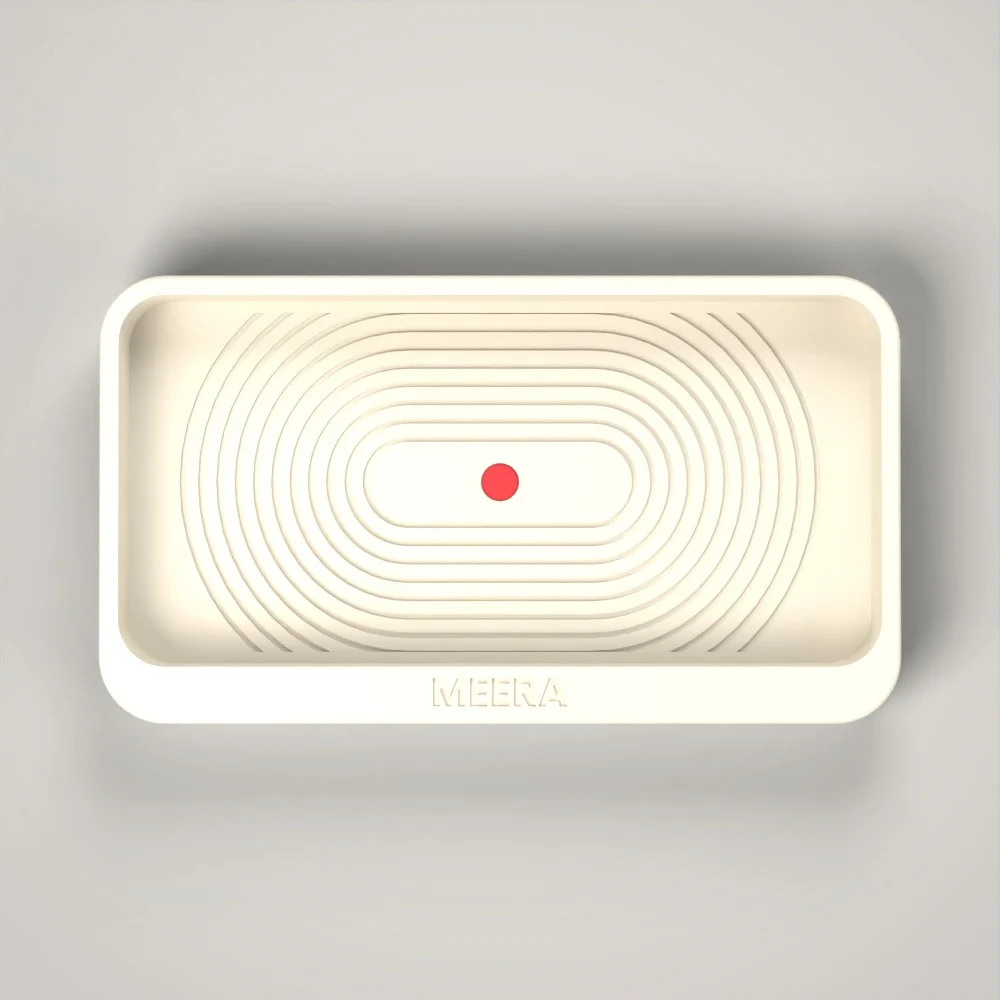
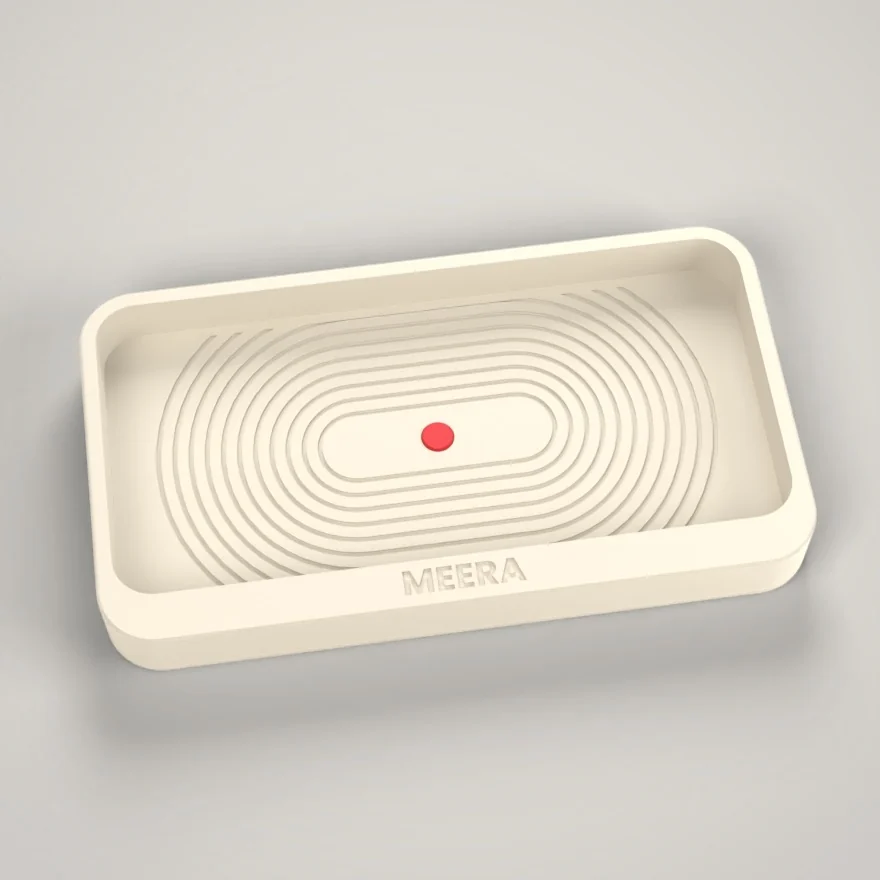
Ripple: softer render lighting, black and ivory renders, tray colour pick
Claude-Session: https://claude.ai/code/session_012J3bizcvEM83i7NEJcEcLP

diff --git a/index.html b/index.html
@@ -867,11 +867,11 @@ const P=[
   desc:"A phone stand with one idea: lean it back. The A-frame is hollow, so it is light and strong, with a 12 mm groove that takes a phone in a case, a lip to stop it sliding and a cable channel underneath so charging does not tip it. Fine flutes run up the back. The top 4 mm is red either way. One piece, nothing to build.",
   size:"70 x 88 x 88 mm, about 60 g. Groove takes phones up to about 11 mm thick with a case",f:[],
   imgs:[["lean","Black body"],["lean_ivory","Ivory body"],["lean_phone","With a phone"],["lean_back","Back, with the cable channel"]]},
- {id:"D18",side:"D",name:"Ripple",kind:"Key tray",price:699,custom:true,noAccent:true,badge:"New",build:"ripple",line:"Ripples spread from one red dot, your name on the lip",
-  desc:"An ivory tray for keys and wallet by the door. Fine ripple grooves spread out from a single red dot, and a flat lip at the front carries your name. Four felt pads underneath keep the table safe. One piece, nothing to build.",
+ {id:"D18",side:"D",name:"Ripple",kind:"Key tray",price:699,custom:true,noAccent:true,badge:"New",build:"ripple",pick:["Tray colour",["Ivory","Black"]],line:"Ripples spread from one red dot, your name on the lip",
+  desc:"A tray for keys and wallet by the door, in ivory or black. Fine ripple grooves spread out from a single red dot, and a flat lip at the front carries your name. Four felt pads underneath keep the table safe. One piece, nothing to build.",
   size:"170 x 95 x 18 mm, about 78 g",
   f:[["Name for the front lip (optional)","",{max:12,opt:true,note:"Up to 12 letters. Leave it empty for a plain lip."}]],
-  imgs:[["ripple","On a shelf"],["ripple_top","From above"]]},
+  imgs:[["ripple","Ivory"],["ripple_black","Black"],["ripple_top","Ivory, from above"],["ripple_black_top","Black, from above"]]},
  {id:"D19",side:"D",name:"Key rail",kind:"Wall rail with hooks",price:799,noAccent:true,badge:"New",build:"keyrail",line:"A slim rail, three hooks that slide in and out",
   desc:"A 200 mm rail for the wall by your door. Five dovetail slots sit along it and the hooks slide down into any of them, so you set them where you want them and move them when that changes. Comes with three jack-plug key hooks. Fix it with two screws or 3M strips. Wider hooks and a small ledge are planned as add-ons, ask in the chat.",
   size:"Rail 200 x 36 x 10 mm, about 57 g with three hooks",f:[],

diff --git a/print-files/cad/render.py b/print-files/cad/render.py
@@ -31,6 +31,7 @@ SHOTS = {
  "crate_s1": dict(az=-14, el=40, zoom=1.12), "crate_back": dict(az=152, el=18, zoom=1.0), "crate_s2": dict(az=-30, el=26, zoom=1.0), "crate_s3": dict(az=-32, el=22, zoom=1.0), "crate_s4": dict(az=-28, el=22, zoom=1.0), "crate_s5": dict(az=-28, el=20, zoom=1.0),
  "cover": dict(az=-26, el=24, zoom=1.0), "cover_lifted": dict(az=-30, el=20, zoom=1.0), "cover_top": dict(az=0, el=89, zoom=1.0), "cover_tiles": dict(az=-24, el=40, zoom=1.0),
  "perch": dict(az=-36, el=30, zoom=1.0, focus=("black", "red", "glass", "prop")), "perch_flat": dict(az=-26, el=44, zoom=1.0),
+ "ripple": dict(az=-24, el=34, zoom=1.0, soft=0.55), "ripple_black": dict(az=-24, el=34, zoom=1.0, soft=0.8), "ripple_top": dict(az=-8, el=62, zoom=1.0, soft=0.5), "ripple_black_top": dict(az=-8, el=62, zoom=1.0, soft=0.8),
 }
 
 def mat(name):
@@ -88,8 +89,9 @@ def render(scene_name, draft=False, res=880):
         l = bpy.data.lights.new("l", "AREA"); l.size = size * rad; l.energy = power * rad * rad; l.color = color
         o = bpy.data.objects.new("l", l); sc.collection.objects.link(o)
         o.location = tgt + Vector(loc) * rad; o.rotation_euler = (tgt - o.location).to_track_quat("-Z", "Y").to_euler()
-    area((-2.6, -2.2, 3.6), 3.2, 380, (1.0, 0.97, 0.93))
-    area((3.2, -1.6, 1.6), 3.0, 95)
+    sf = shot.get("soft", 1.0)
+    area((-2.6, -2.2, 3.6), 3.2, 380 * sf, (1.0, 0.97, 0.93))
+    area((3.2, -1.6, 1.6), 3.0, 95 * (1.5 if sf < 1 else 1))
     area((0.6, 3.4, 2.6), 2.4, 170)
     r = sc.render; r.engine = "CYCLES"; r.resolution_x = r.resolution_y = res; r.resolution_percentage = 50 if draft else 100
     sc.cycles.samples = 24 if draft else 72; sc.cycles.use_denoising = True; sc.cycles.device = "CPU"

diff --git a/print-files/cad/build11.py b/print-files/cad/build11.py
@@ -49,7 +49,8 @@ def build_ripple():
             (mv(rot(U([cyl(12, 2.2, 0), cube(50, 7, 2.2, 34, 0, 0)]), 0, 0, -160), 55, 12, FLOOR + 0.4), "steel")]
     p.scene("ripple", [(named, IVORY), (dot_in, RED)] + keys)
     p.scene("ripple_top", [(named, IVORY), (dot_in, RED)])
-    p.scene("ripple_black", [(named, BLACK), (dot_in, RED)])
+    p.scene("ripple_black", [(named, BLACK), (dot_in, RED)] + keys)
+    p.scene("ripple_black_top", [(named, BLACK), (dot_in, RED)])
     p.scene("bp_D18", [(named, IVORY), (dot_in, RED)]); p.scene("bpo_D18", [(plain, IVORY), (dot_in, RED)])
     g = grams(plain, 0.15) + grams(dot, 1.0)
     p.note = (f"D18 Ripple. {TW:g} x {TD:g} x {TH:g} mm, matte ivory, prints flat as it sits, no supports. "
